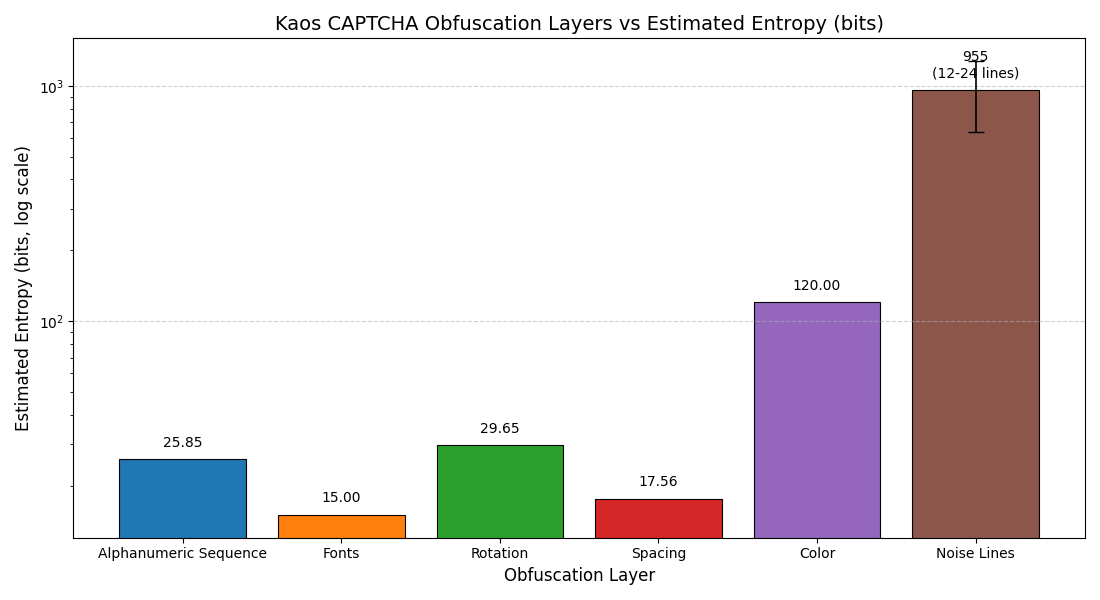
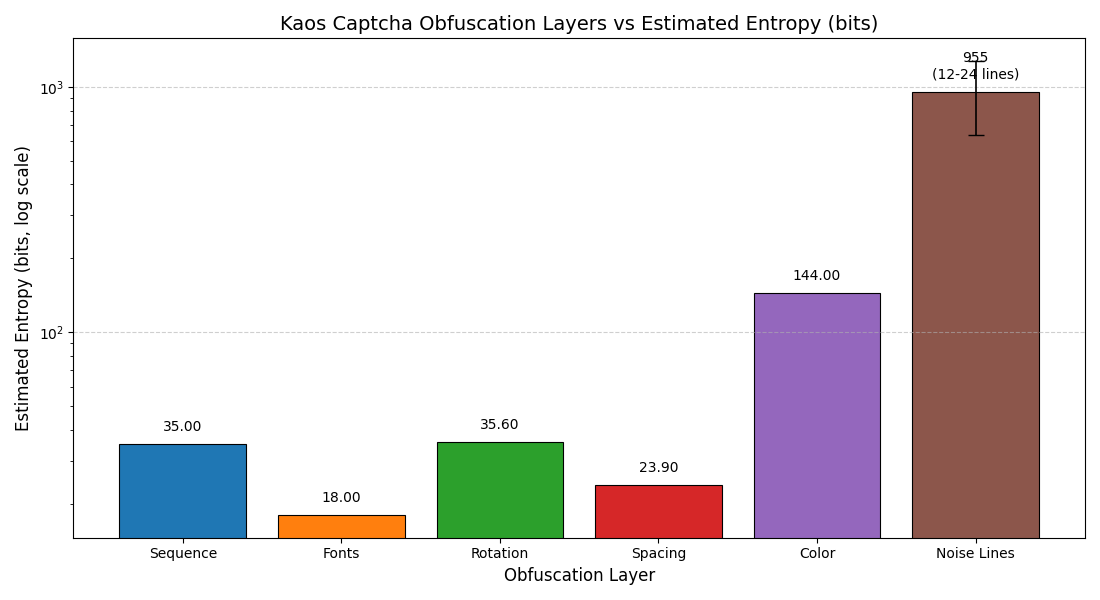
Update README with revised entropy analysis and assets
README updated to reflect changes in CAPTCHA character count, entropy calculations, and security analysis. Added new refresh icon and updated resilience visualization image for improved documentation clarity.

diff --git a/README.md b/README.md
@@ -10,116 +10,101 @@ It is suitable for web applications where **strong anti-bot protection** is requ
 
 ## **Features**
 
-* Generates **5-character alphanumeric CAPTCHAs** (A–Z, a–z, 0–9), randomized per session.
-* Randomized **font selection per character** (8 fonts selected during installation).
-* Dynamic **font size** between **28 px – 36 px**.
-* Randomized **character rotation** between approximately **−30° and +30°**.
+* Generates **6-character alphanumeric CAPTCHAs** (randomized per session).
+* Randomized **font selection per digit/character** (8 fonts selected during installation).
+* Dynamic **font size** between 28 px – 36 px.
+* Randomized **character rotation range** between approximately −30° and +30°.
 * Adjustable **horizontal spacing** (6 – 14 px variation between characters).
 * Randomized **vertical jitter** (6 – 12 px) for irregular baseline placement.
 * Fully randomized **RGB color** per character, constrained to avoid excessively bright or dark tones.
 * Randomized **background** — uses `white.jpg` if present, otherwise generates a plain white background.
 * Adds **12–24 random noise lines** per CAPTCHA, each with unique color, position, and brightness.
-* Supports environment-based **CAPTCHA_PEPPER** for entropy seeding, improving unpredictability and per-installation uniqueness.
-* Automatically embeds **randomized per-installation parameters** for image dimensions, font behavior, noise density, and color variance.
-* Uses **deterministic seed generation** (HMAC-based) when `CAPTCHA_PEPPER` is defined, ensuring consistent yet unpredictable outputs within sessions.
-* Dependencies: **PHP 7.4+** (or newer) with **GD extension** enabled.
-* Produces a fully self-contained output file (`captcha.php`) requiring **no external libraries** or API calls.
+* Supports environment-based **CAPTCHA_PEPPER** for entropy seeding (optional but recommended).
+* Automatically embeds **per-installation randomized parameters** for image dimensions, noise density, and color balance.
+* Dependencies: **PHP 7.4 +** (or newer) with **GD extension** enabled.
+* Fully self-contained output (`captcha.php`) that requires **no external libraries** or API calls.
 
 ---
 
-### **Obfuscation and Security Analysis**
+### Obfuscation and Security Analysis
 
-This CAPTCHA script is engineered for **entropy and OCR resistance**.
-Each installation produces **site-specific randomized parameters** (fonts, rotation ranges, spacing, color balance, noise density), ensuring that every deployment yields a visually and statistically distinct image distribution.
-The following breakdown explains how each obfuscation layer contributes to overall resilience, using representative values produced by the installer.
+This captcha script is designed for **entropy and OCR resistance**. The installer produces **site-specific** randomized parameters (fonts, rotation ranges, spacing, color ranges, noise density) so each deployment yields a distinct image distribution. The following breakdown describes how each obfuscation layer contributes to overall resilience and shows a conservative example calculation using typical values produced by the installer.
 
 ![Captcha Resilience Visualization](assets/img/captcha_resilience_vis.png)
 
 ---
 
-#### **1. Random Alphanumeric Sequence**
+#### 1. Random Character Sequence
 
-* Each CAPTCHA consists of **5 alphanumeric characters** (A–Z, a–z, 0–9).
-* That provides **62 possibilities per character**.
+* Each captcha has **6 characters (alphanumeric)** → `57` possibilities per character (excluding ambiguous characters like `0, O, 1, l, I`).
 * Entropy formula: `H = log2(N^L) = L * log2(N)`
-* Calculated entropy (characters only): `H_chars = 5 * log2(62) ≈ 29.75 bits`
-* This forms the **baseline entropy** from the sequence itself — almost **double** that of numeric-only CAPTCHAs.
+* Calculated entropy (sequence only):
+  `H_sequence = 6 * log2(57) ≈ 35.0 bits`
+* This is the **baseline entropy** coming from the alphanumeric sequence alone.
 
 ---
 
-#### **2. Font Variability (per-install)**
+#### 2. Font Variability (per-install)
 
-* The installer embeds **8 randomly selected fonts** (from local `fonts/` or fallback fonts).
-* Each character randomly selects one of these fonts: `log2(8) ≈ 3 bits` per character.
-* For 5 characters: `H_fonts = 5 * 3 = 15 bits`.
+* Installer selects **8 fonts** (from local `fonts/` or public fallbacks) and embeds that list into the generated `captcha.php`.
+* Entropy per character (conservative estimate): `log2(8) ≈ 3 bits`
+* For 6 characters: `H_fonts = 6 * 3 = 18 bits`
 
-> Because font choice is fixed at install time but randomized per character, this adds **intra-installation variability** while maintaining distinctiveness between deployments.
-> Avoid publishing production font files to prevent reverse engineering of glyph shapes.
-
----
-
-#### **3. Rotation (per-character)**
-
-* Rotation is typically randomized between **−30° and +30°**, with exact bounds unique per installation.
-* Approximate distinct positions: **61 integer values**.
-* Entropy per character: `log2(61) ≈ 5.93 bits`.
-* For 5 characters: `5 * 5.93 ≈ 29.65 bits`.
-
-> Rotation remains one of the most effective defenses against automated segmentation and OCR alignment.
+> Note: fonts are chosen at install time (not per-request). If production fonts are leaked, an attacker could reduce entropy — do not publish production fonts.
 
 ---
 
-#### **4. Color Variation (per-character)**
+#### 3. Rotation (per-character)
 
-* Each character’s color is randomly generated in the **RGB spectrum**, constrained only by brightness thresholds to maintain readability.
-* Each RGB channel offers up to 256 possibilities, yielding up to **24 bits of entropy per character**.
-* For 5 characters: `H_color = 5 * 24 = 120 bits`.
-
-> While OCR engines often normalize color to grayscale, random color values significantly hinder background subtraction and contour detection.
+* Rotation range roughly **−30° to +30°** → 61 integer angles.
+* Entropy per character: `log2(61) ≈ 5.93 bits`
+* For 6 characters: `6 * 5.93 ≈ 35.6 bits`
 
 ---
 
-#### **5. Horizontal Spacing & Vertical Jitter**
+#### 4. Color Variation (per-character)
 
-* The installer randomizes both `spacing_range` (typically **6–14 px**) and `y_jitter` (**6–12 px**).
-* For spacing, assuming roughly 21 integer offsets per gap: `log2(21) ≈ 4.39 bits`.
-* For 4 gaps (between 5 characters): `4 * 4.39 ≈ 17.56 bits`.
-
-> Combined with vertical jitter, this forces OCR algorithms to perform additional geometric correction before segmentation.
+* Each RGB channel is randomized within a constrained range to avoid extremes, giving up to **24 bits per character** in theory.
+* For 6 characters: `H_color = 6 * 24 = 144 bits`
+* OCR may ignore color channels, but color remains a strong confounder for segmentation.
 
 ---
 
-#### **6. Noise Lines (per-image; randomized range)**
+#### 5. Horizontal Spacing & Vertical Jitter
 
-* Each CAPTCHA includes **12–24 randomly drawn noise lines**, each with random color and start/end positions.
-* Using a conservative combinatorial estimate: `~53.07 bits per line`.
-* With an average of 18 lines: `18 * 53.07 ≈ 955.26 bits`.
-
-> This layer provides the strongest **OCR disruption**.
-> While not all theoretical entropy is practical, these lines heavily interfere with contour detection, skeletonization, and path clustering.
+* Horizontal spacing: `spacing_range ≈ 6–14 px` → 21 integer possibilities per gap
+* 5 gaps between 6 characters: `H_spacing = 5 * log2(21) ≈ 23.9 bits`
+* Vertical jitter adds further segmentation uncertainty (not fully counted above).
 
 ---
 
-#### **7. Total Approximate Entropy (Conservative Example)**
+#### 6. Noise Lines (per-image)
 
-Using representative averages from the installer:
+* Installer selects **12–24 lines**, each with randomized start/end and color.
+* Conservative per-line entropy: `≈ 53.07 bits`
+* Using **18 lines** average: `H_lines ≈ 955.26 bits`
 
-| Component               | Approx. Entropy (bits) |
-| ----------------------- | ---------------------- |
-| Alphanumeric Sequence   | 29.75                  |
-| Fonts                   | 15                     |
-| Rotation                | 29.65                  |
-| Color                   | 120                    |
-| Spacing & Jitter        | 17.56                  |
-| Noise Lines (avg. 18)   | 955.26                 |
-| **Total (approximate)** | **1,167.2 bits**       |
+> Lines are the primary OCR-resistance feature — the practical difficulty they introduce outweighs raw entropy numbers.
 
-*Lower-bound (ignoring color and line noise):*
-`29.75 + 15 + 29.65 + 17.56 ≈ 91.96 bits`
+---
 
-> **Interpretation:**
-> Even ignoring color and noise-line obfuscation, the CAPTCHA maintains **~92 bits of effective entropy**, placing it well above the resistance threshold for untrained OCR or general-purpose AI solvers.
-> With all layers active, the theoretical entropy exceeds **1,100 bits**, ensuring that any successful solver would require extensive site-specific data collection and model tuning.
+#### 7. Total approximate entropy (conservative example)
+
+* Representative values:
+
+| Layer       | Entropy (bits) |
+| ----------- | -------------- |
+| Sequence    | 35.0           |
+| Fonts       | 18.0           |
+| Rotation    | 35.6           |
+| Color       | 144.0          |
+| Spacing     | 23.9           |
+| Noise Lines | 955.26         |
+
+* Sum: `H_total ≈ 1211.76 bits`
+* Conservative lower-bound (ignore color and lines): `35 + 18 + 35.6 + 23.9 ≈ 112.5 bits`
+
+> **Interpretation:** Even ignoring color and line noise, off-the-shelf OCR or AI solvers face **>100 bits of uncertainty** — extremely resistant to automated attacks without targeted, site-specific training.
 
 ---
 
